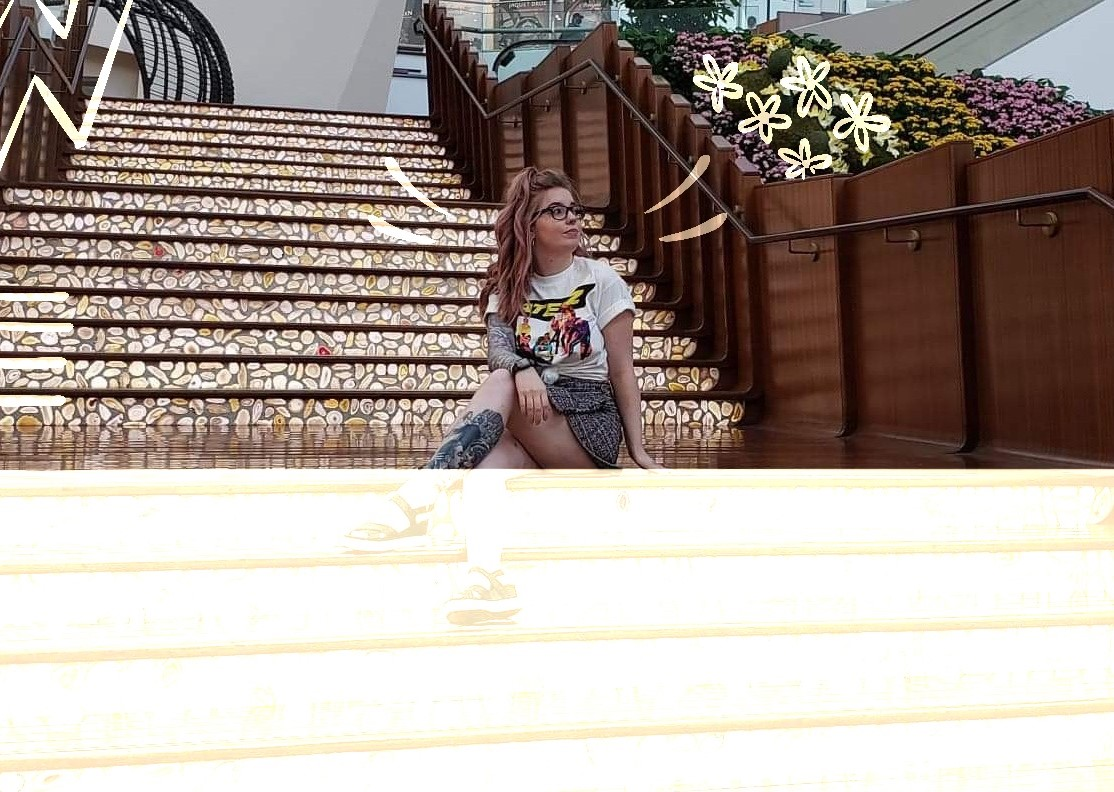
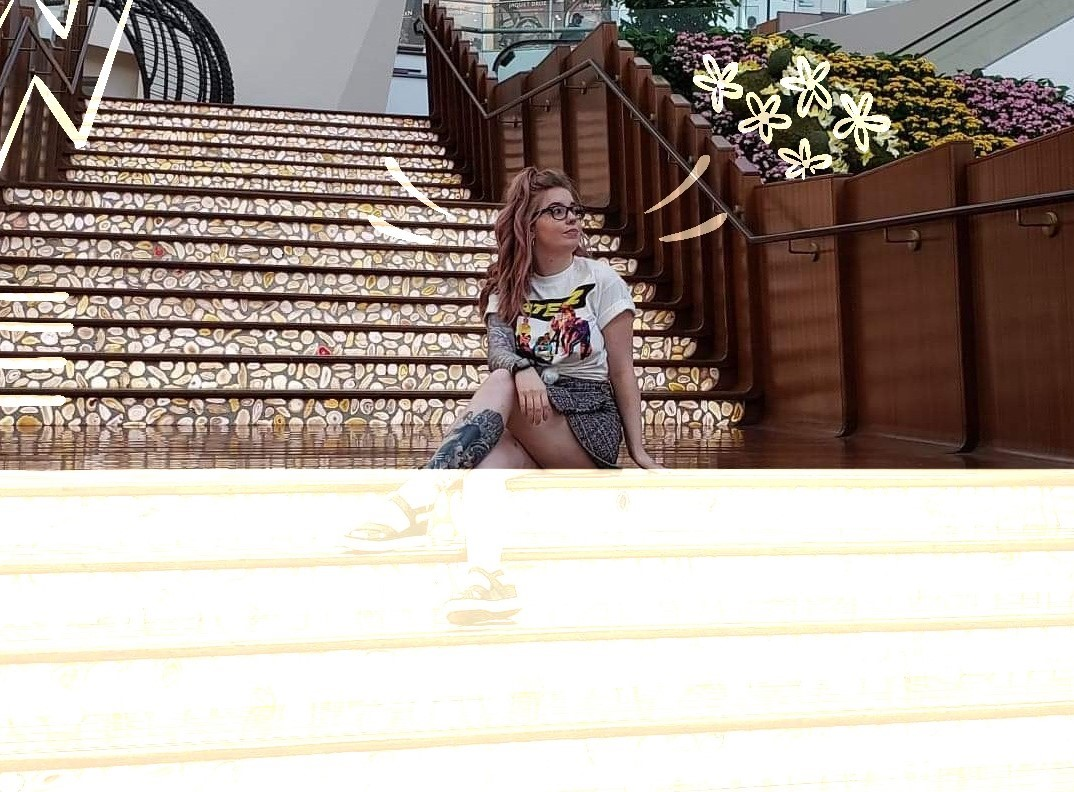
c

diff --git a/css/indexstyles.css b/css/indexstyles.css
@@ -137,7 +137,7 @@ h1 {
     margin: 5px 0px 0px 15px;
     padding: 10px 10px 0px 0px;
     position: absolute;
-    top: 25vh;
+    top: 20vh;
     -webkit-text-stroke: 2px #013220;
 }
 #title {
@@ -145,7 +145,7 @@ h1 {
     width: 100%;
     flex-direction: column;
     position: absolute;
-    top: 40vh;  
+    top: 35vh;  
 }
 #title p{
     margin-left: 15px;
@@ -154,7 +154,6 @@ h1 {
     color: var(--brown);
     font-size: 18px;
     font-weight: bold;
-    padding-bottom: 20px;
 }
 #home-main img {
     flex-basis: 100%;
